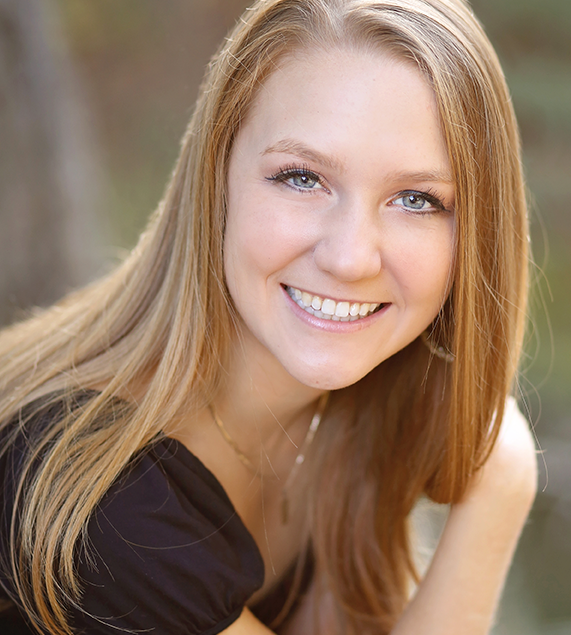
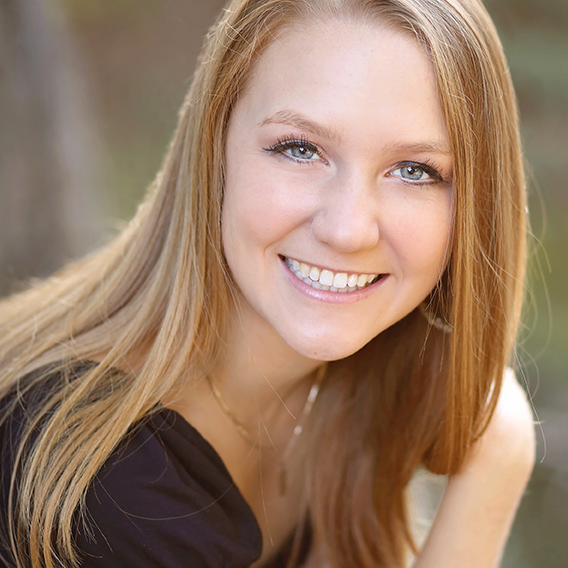
cropped my pic

diff --git a/index.html b/index.html
@@ -127,7 +127,8 @@
               <p class="testimonial">
                 <img src="img/PaigeDay.png" class="img-circle aligncenter" alt="">
               </p>
-              <h6>Dani Gnibus</h6>
+              <h4>Dani Gnibus</h4>
+              <h6>Developer</h6>
               <p class="centered testimonial">Woo this is me!!!</p>
             </div>
             <div class="col-sm-4 text-center">
